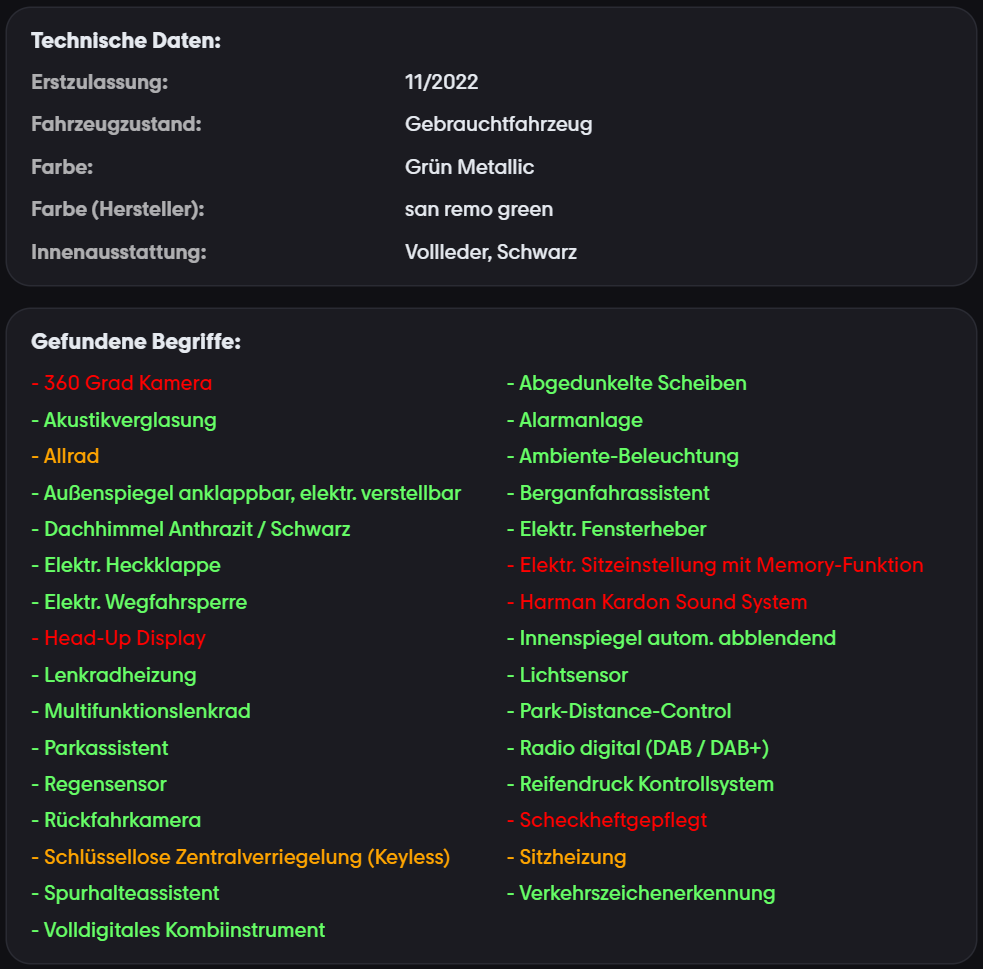
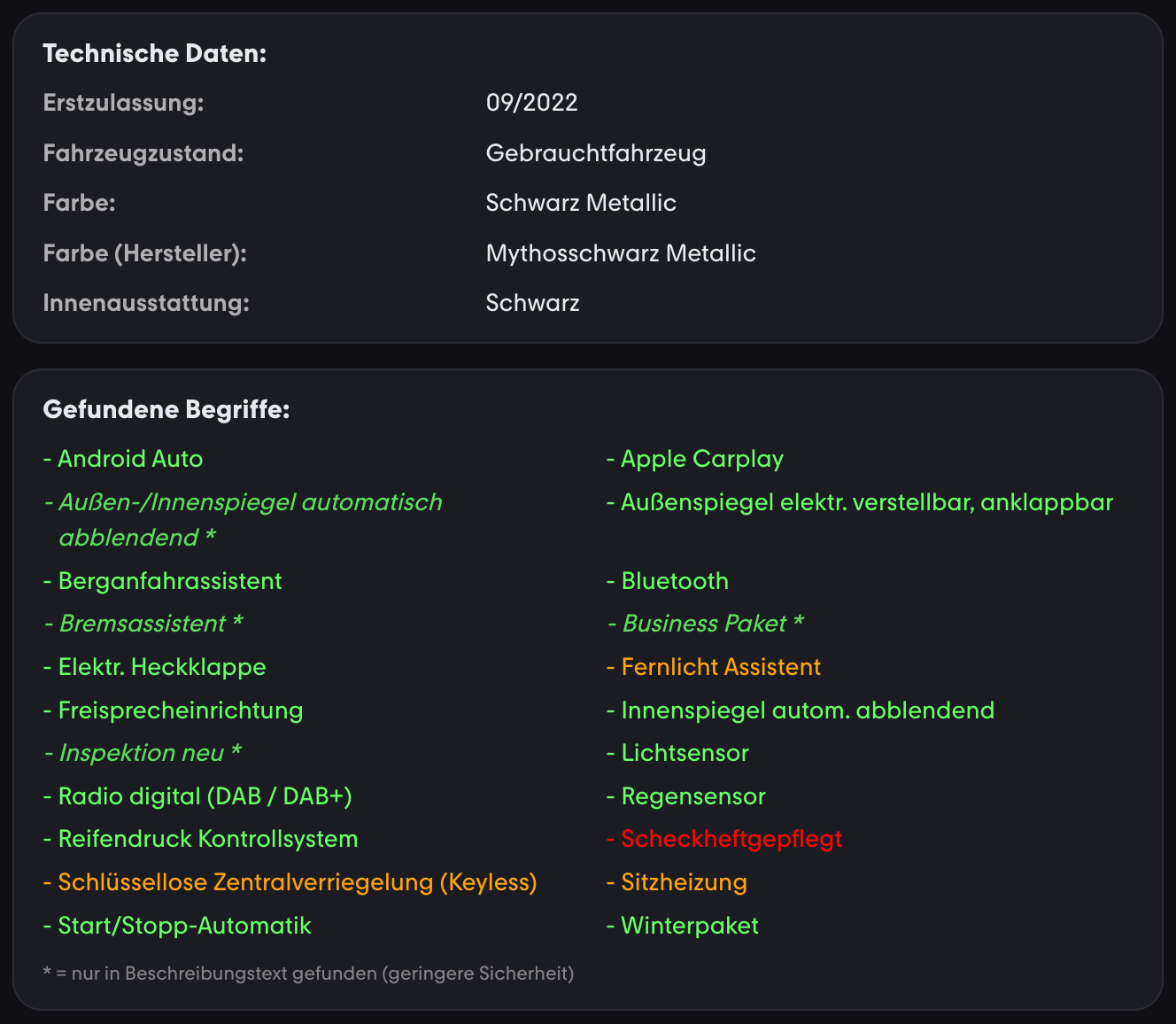
Screenshots erneuert (v2.16.51) und um Preisbewertung und Merge-Gruppen ergänzt

diff --git a/site/index.html b/site/index.html
@@ -136,11 +136,19 @@ footer{padding:28px 0 48px;border-top:1px solid var(--border);font-size:14px;col
   <h2 id="screenshots">So sieht es aus</h2>
   <div class="shots">
     <figure>
-      <img src="assets/ergebnis-techdaten.png" width="983" height="969" loading="lazy" alt="Gefundene Ausstattung und technische Daten farbig markiert auf einer mobile.de-Fahrzeugseite">
+      <img src="assets/ergebnis-techdaten.png" width="1176" height="1024" loading="lazy" alt="Gefundene Ausstattung und technische Daten farbig markiert auf einer mobile.de-Fahrzeugseite">
       <figcaption>Gefundene Ausstattung und technische Daten auf der Fahrzeugseite</figcaption>
     </figure>
     <figure>
-      <img src="assets/popup-ausstattung.png" width="2000" height="1267" loading="lazy" alt="Konfigurations-Popup des Userscripts mit Liste der Ausstattungsbegriffe und Editor">
+      <img src="assets/preisbewertung.png" width="650" height="464" loading="lazy" alt="Ausstattungsbereinigte Preisbewertung unter dem Fahrzeugpreis: mobile.de zeigt Sehr guter Preis, das Userscript Erhöhter Preis nach Vergleich mit 27 Fahrzeugen">
+      <figcaption>Preisbewertung: mobile.de sagt „Sehr guter Preis“, ausstattungsbereinigt ist er erhöht</figcaption>
+    </figure>
+    <figure>
+      <img src="assets/popup-merge-gruppen.png" width="1400" height="856" loading="lazy" alt="Konfigurations-Popup, Reiter Merge-Gruppen mit sortierbaren Chips und Beispiel">
+      <figcaption>Merge-Gruppen: Treffer zu einer Zeile zusammenfassen</figcaption>
+    </figure>
+    <figure>
+      <img src="assets/popup-ausstattung.png" width="1176" height="1017" loading="lazy" alt="Konfigurations-Popup des Userscripts mit Liste der Ausstattungsbegriffe und Editor">
       <figcaption>Konfigurations-Popup: Begriffe, Farben und Favoriten pflegen</figcaption>
     </figure>
   </div>

diff --git a/README.md b/README.md
@@ -92,27 +92,39 @@ npm run build
 
 ### Ergebnis auf der Detailseite
 
-Über dem Aktionsbereich erscheinen der Block **„Technische Daten:“** und **„Gefundene Begriffe:“** bzw. im Automodus **„Ausstattung (vollständig):“** mit farblicher Zuordnung (z.&nbsp;B. Ampel-/Prioritätsfarben wie im Skript eingestellt).
+Über dem Aktionsbereich erscheinen **„Technische Daten:“** und **„Gefundene Begriffe:“** mit den Farben aus deiner Konfiguration. Kursive Einträge mit * wurden nur im Beschreibungstext gefunden (geringere Sicherheit); im Automodus heißt der Block **„Ausstattung (vollständig):“**.
 
-![Technische Daten und gefundene Begriffe](./assets/ergebnis-techdaten.png)
+![Technische Daten und gefundene Begriffe auf einer Fahrzeugseite](./assets/ergebnis-techdaten.png)
+
+### Preisbewertung neben dem Preis
+
+Unter dem Preis steht die eigene Einordnung, ausstattungsbereinigt und mit Anzahl der Vergleichsfahrzeuge. Im Beispiel wertet mobile.de den Preis als „Sehr guter Preis“, nach Abgleich mit 27 ähnlich ausgestatteten Fahrzeugen ergibt sich „Erhöhter Preis“ (erwartet ~18.648 €). Das **?** erklärt die Rechnung im Detail.
+
+![Ausstattungsbereinigte Preisbewertung unter dem Preis](./assets/preisbewertung.png)
 
 ### Aktionsbereich mit Konfigurations-Button
 
-Der Button **Konfiguration** sitzt zusammen mit „E-Mail schreiben“, „Geparkt“ und „Teilen“ im typischen Aktionsbereich auf der rechten Spalte.
+Der Button **Konfiguration** sitzt unter „E-Mail schreiben“, „Parken“ und „Teilen“ in der rechten Spalte.
 
 ![Aktionsbereich mit Button Konfiguration](./assets/aktionsbereich-konfiguration.png)
 
-### Popup: Ausstattung & weitere Tabs
+### Popup: Ausstattung
 
-Links die Liste aller Einträge mit Schalter, Favoriten-Stern und Farbmarkierung, rechts der **Detail-Editor** (Anzeigetext, Suchbegriffe als Chips, Verbotene Begriffe). Oben Filter (nur aktive / nur Favoriten / mit Verboten), Sortierung, **Duplizieren** und **+ Neu**; Optionen „Nur Ausstattungsliste“ / „Wortteil-Suche“ sowie Tabs für Tech-Daten, Merge-Gruppen, Import/Export und Config. Die Kopfzeile zeigt die Skript-Version und das Schema.
+Links die Liste aller Einträge mit Schalter, Favoriten-Stern, Farbe und Preisgewicht (⚖), rechts der **Detail-Editor**: Anzeigetext, Suchbegriffe und verbotene Begriffe als Chips, Preisgewicht, Farbe und Optionen. Oben Filter (nur aktive / Favoriten / mit Verboten / mit Gewicht), Sortierung, Alle Ein/Aus und **+ Neu**.
 
-![Konfigurations-Popup, Tab Ausstattung](./assets/popup-ausstattung.png)
+![Konfigurations-Popup, Reiter Ausstattung](./assets/popup-ausstattung.png)
 
-### Popup: Config (Listen & Suchergebnis-Sortierung)
+### Popup: Merge-Gruppen
 
-Im Tab **Config** werden Skript-Optionen zentral gesteuert, z.&nbsp;B. **Listen-Reihenfolge** (alphabetisch/manuell, optionale Bereiche) und die **Standard-Sortierung** auf Suchergebnisseiten inkl. Schalter „Auf Suchergebnisseiten anwenden“.
+Mehrere Treffer mit gleicher Basis werden zu einer Zeile zusammengefasst. Die Chips legen die Reihenfolge fest und lassen sich am ⠿ ziehen; grün umrandete Chips treffen einen Ausstattungs-Eintrag. Vorschläge aus dem Reiter Ausstattung erscheinen unter den Chips, das **Beispiel** zeigt das Ergebnis mit echten Einträgen.
 
-![Konfigurations-Popup, Tab Config](./assets/popup-config-feature-flags.png)
+![Konfigurations-Popup, Reiter Merge-Gruppen](./assets/popup-merge-gruppen.png)
+
+### Popup: Config → Preisbewertung
+
+Im Reiter **Config** sind die Skript-Optionen nach Bereichen gegliedert (Allgemein, Listen &amp; Sortierung, Suchergebnisse, Preisbewertung). Für die Preisbewertung lassen sich Anzeige, Vergleichsgruppe und Toleranzen einstellen.
+
+![Konfigurations-Popup, Config-Bereich Preisbewertung](./assets/popup-config-preisbewertung.png)
 
 ## Suchkriterien anpassen
 
